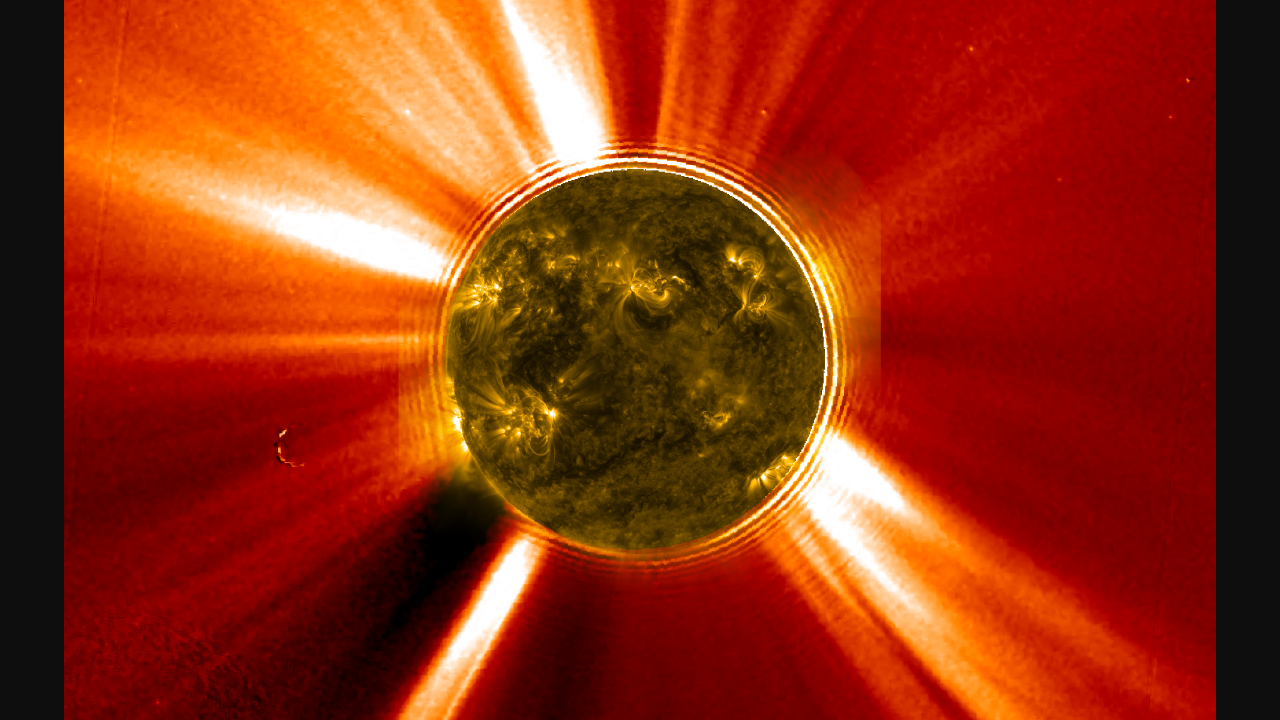
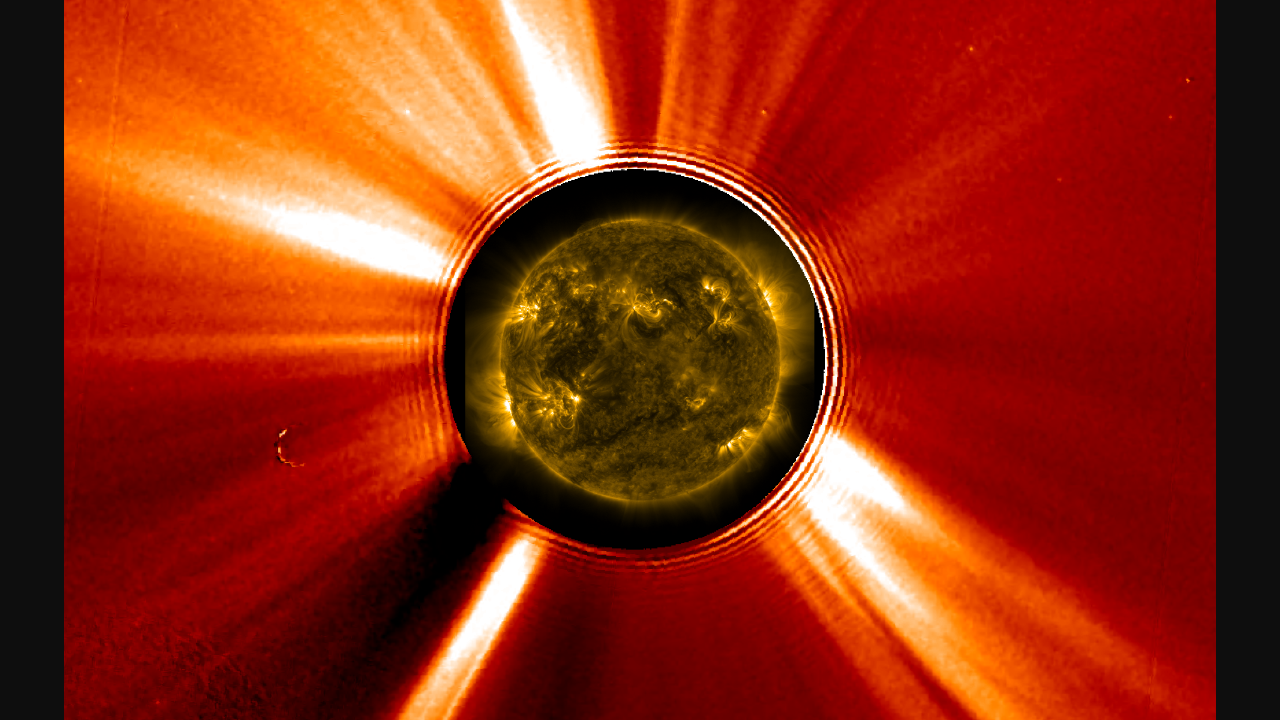
Fix: Correct sun and corona composite alignment
The previous compositing logic used hardcoded estimates for the diameters of the sun disk and the corona's occulting disk, leading to a visual misalignment in the final image.

This change introduces a script to programmatically measure the precise diameters from sample images. The compositing logic in `src/index.ts` is updated with these more accurate measurements, resulting in a correctly aligned composite image.

The new diameters are:
- Sun disk: 964px
- Occulting disk: 579px

Changed region(s): [[0.3125, 0.2139, 0.6875, 0.7944]]

diff --git a/src/index.ts b/src/index.ts
@@ -66,13 +66,11 @@ async function fetchCompositeImage(isoDate: string, apiKey: string): Promise<Buf
 
 	const [coronaImage, sunDiskImage] = await Promise.all([coronaImagePromise, sunDiskImagePromise]);
 
-	// As determined in the analysis phase, we need to resize the sun disk image to 1600x1600
-	// to make the sun's diameter (768px in the original) fit the occulting disk (estimated at 640px).
-	// 1920 * (640 / 768) = 1600
-	// We then extract the central 1200x1200 portion of the resized image to fit onto the corona image.
+	// Using diameters measured by `jules-scratch/measure_diameters.mjs`, we resize the sun disk
+	// image to make the sun's diameter (964px) fit the occulting disk (579px).
+	// 1920 * (579 / 964) = 1158
 	const resizedSunDisk = await sharp(sunDiskImage)
-		.resize(1600, 1600)
-		.extract({ left: 200, top: 200, width: 1200, height: 1200 })
+		.resize(1158, 1158)
 		.toBuffer();
 
 	const finalImage = await sharp(coronaImage)
